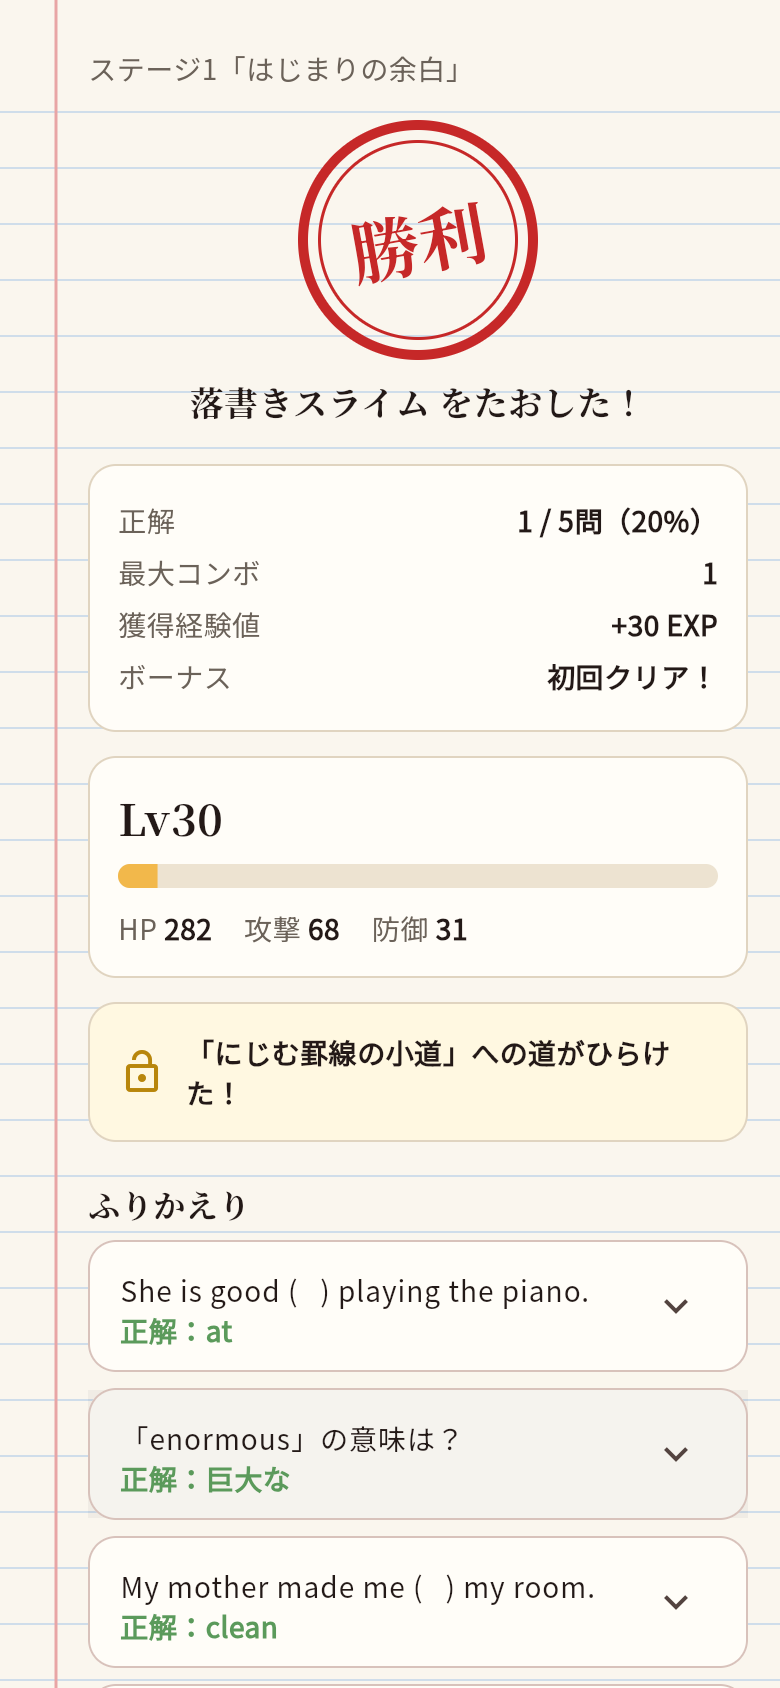
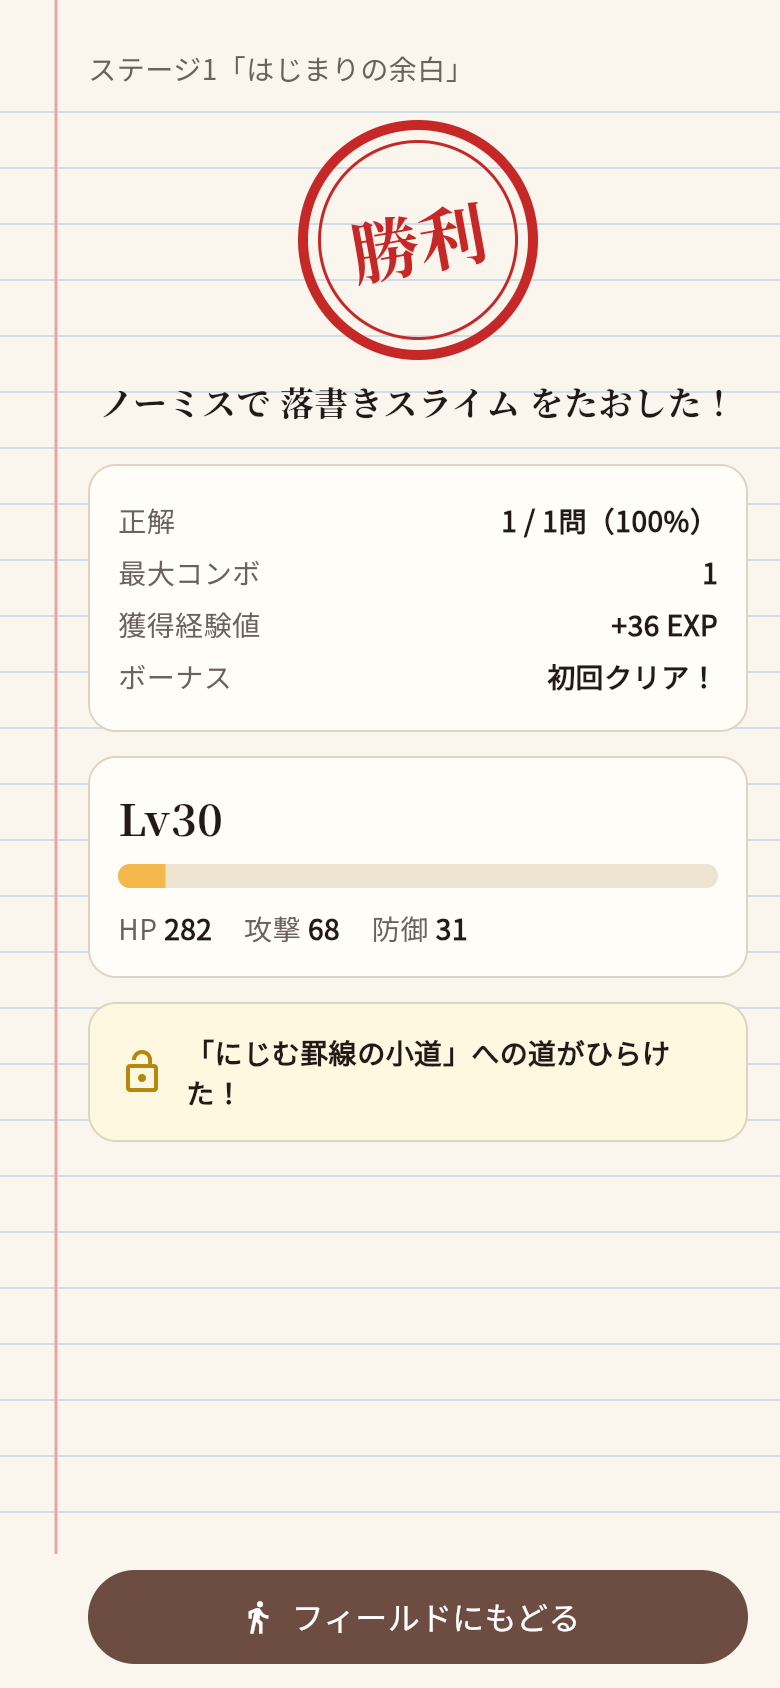
Fix being unable to pass a gate after defeating its enemy
- Enemy spots (1-9) were not treated as floor, so the gate stayed
  impassable once the enemy stepped aside; the reachability test hid this
  by special-casing digits and now uses the same isFloor as the game
- Defeated enemies now step into the wall niche beside their gate instead
  of onto the approach path
- Refresh the field and restore keyboard focus via RouteAware when the
  battle/result screens close (pushReplacement completed the push early)
- Keep the result screen's return button pinned to the bottom

Claude-Session: https://claude.ai/code/session_01TNU1f3YvE5Znfe4DANfdRU

diff --git a/rpg_game_app/lib/field/field_screen.dart b/rpg_game_app/lib/field/field_screen.dart
@@ -4,6 +4,7 @@ import 'package:rpg_game/rpg_game.dart';
 
 import '../app/services.dart';
 import '../app/theme.dart';
+import '../main.dart' show routeObserver;
 import '../art/enemy_painter.dart';
 import '../art/hero_painter.dart';
 import '../battle/battle_screen.dart';
@@ -34,7 +35,7 @@ class _MessageDialog extends _Dialog {
   final String text;
 }
 
-class _FieldScreenState extends State<FieldScreen> {
+class _FieldScreenState extends State<FieldScreen> with RouteAware {
   late RpgProgress _progress = widget.progress;
   late final FieldGame _game = FieldGame(
     map: FieldMap.english,
@@ -46,6 +47,36 @@ class _FieldScreenState extends State<FieldScreen> {
   _Dialog? _dialog;
   bool _starting = false;
 
+  /// キーボード操作用。バトルから戻ったときやダイアログを閉じたときに取り戻す
+  final _focus = FocusNode();
+
+  @override
+  void didChangeDependencies() {
+    super.didChangeDependencies();
+    final route = ModalRoute.of(context);
+    if (route != null) routeObserver.subscribe(this, route);
+  }
+
+  @override
+  void dispose() {
+    routeObserver.unsubscribe(this);
+    _focus.dispose();
+    super.dispose();
+  }
+
+  /// バトル・結果画面を閉じて、フィールドが一番手前に戻ったとき
+  @override
+  void didPopNext() => _refreshAfterBattle();
+
+  Future<void> _refreshAfterBattle() async {
+    final updated = await RpgServices.of(context).repository.load();
+    if (!mounted) return;
+    setState(() => _progress = updated);
+    _game.applyProgress(updated);
+    _game.inputLocked = false;
+    _focus.requestFocus();
+  }
+
   void _open(_Dialog d) {
     _game.inputLocked = true;
     _game.padDirection = null;
@@ -55,6 +86,7 @@ class _FieldScreenState extends State<FieldScreen> {
   void _close() {
     _game.inputLocked = false;
     setState(() => _dialog = null);
+    _focus.requestFocus();
   }
 
   Future<void> _startBattle(StageDef stage) async {
@@ -70,7 +102,9 @@ class _FieldScreenState extends State<FieldScreen> {
     }
     _close();
     _game.inputLocked = true;
-    await Navigator.of(context).push(
+    // 戻ってきたときの処理は didPopNext で行う（結果画面へは差し替えで進むため、
+    // ここで push の完了を待つと結果画面を閉じる前に戻り処理が走ってしまう）
+    Navigator.of(context).push(
       PageRouteBuilder<void>(
         transitionDuration: const Duration(milliseconds: 600),
         pageBuilder: (_, _, _) => BattleScreen(
@@ -83,11 +117,6 @@ class _FieldScreenState extends State<FieldScreen> {
             _BattleTransition(animation: anim, child: child),
       ),
     );
-    final updated = await services.repository.load();
-    if (!mounted) return;
-    setState(() => _progress = updated);
-    _game.applyProgress(updated);
-    _game.inputLocked = false;
   }
 
   @override
@@ -100,7 +129,9 @@ class _FieldScreenState extends State<FieldScreen> {
       backgroundColor: TsuzuriColors.kraft,
       body: Stack(
         children: [
-          Positioned.fill(child: GameWidget(game: _game)),
+          Positioned.fill(
+            child: GameWidget(game: _game, focusNode: _focus),
+          ),
           // 上部の情報バー
           Positioned(
             top: 0,

diff --git a/rpg_game_app/test/field_map_test.dart b/rpg_game_app/test/field_map_test.dart
@@ -25,8 +25,15 @@ void main() {
     }
   });
 
-  /// 倒した敵（番号 < [upTo]）を通れるものとして、スタートから届くマス
+  /// 番号 < [upTo] の敵を倒した状態（ゲート横にどいている）で、スタートから届くマス
   Set<(int, int)> reachable(int upTo) {
+    final blocked = <(int, int)>{
+      for (final e in map.enemySpots.entries)
+        if (e.key < upTo)
+          (map.asideOf(e.value).col, map.asideOf(e.value).row)
+        else
+          (e.value.col, e.value.row),
+    };
     final start = map.find('P');
     final seen = <(int, int)>{(start.col, start.row)};
     final queue = Queue.of([(start.col, start.row)]);
@@ -34,10 +41,8 @@ void main() {
       final (c, r) = queue.removeFirst();
       for (final (dc, dr) in [(0, 1), (0, -1), (1, 0), (-1, 0)]) {
         final n = (c + dc, r + dr);
-        final t = map.tileAt(n.$1, n.$2);
-        final enemy = int.tryParse(t);
-        final passable =
-            map.isFloor(n.$1, n.$2) || (enemy != null && enemy < upTo);
+        // ゲーム本体と同じく、地形は isFloor、敵の有無は blocked で判定する
+        final passable = !blocked.contains(n) && map.isFloor(n.$1, n.$2);
         if (passable && seen.add(n)) queue.add(n);
       }
     }
@@ -63,6 +68,14 @@ void main() {
           reason: '${s.name} を倒す前に次の敵へ届いてしまう',
         );
       }
+    }
+  });
+
+  test('倒した敵は壁のくぼみに寄り、床をふさがない', () {
+    for (final spot in map.enemySpots.values) {
+      final aside = map.asideOf(spot);
+      expect(aside, isNot(spot));
+      expect(map.tileAt(aside.col, aside.row), '#');
     }
   });
 

diff --git a/rpg_game_app/lib/battle/result_screen.dart b/rpg_game_app/lib/battle/result_screen.dart
@@ -98,6 +98,22 @@ class _ResultScreenState extends State<ResultScreen>
     final s = widget.summary;
     final won = s.won;
     return Scaffold(
+      // もどるボタンは常に見えるよう画面下に固定する
+      bottomNavigationBar: Container(
+        color: TsuzuriColors.paper,
+        padding: const EdgeInsets.fromLTRB(44, 8, 16, 12),
+        child: SafeArea(
+          top: false,
+          child: FilledButton.icon(
+            onPressed: () => Navigator.of(context).pop(),
+            icon: const Icon(Icons.directions_walk),
+            label: const Padding(
+              padding: EdgeInsets.symmetric(vertical: 12),
+              child: Text('フィールドにもどる', style: TextStyle(fontSize: 16)),
+            ),
+          ),
+        ),
+      ),
       body: NotebookPaper(
         child: SafeArea(
           child: ListView(
@@ -163,15 +179,7 @@ class _ResultScreenState extends State<ResultScreen>
                 const SizedBox(height: 6),
                 for (final q in s.missedQuestions) _review(q),
               ],
-              const SizedBox(height: 24),
-              FilledButton.icon(
-                onPressed: () => Navigator.of(context).pop(),
-                icon: const Icon(Icons.directions_walk),
-                label: const Padding(
-                  padding: EdgeInsets.symmetric(vertical: 12),
-                  child: Text('フィールドにもどる', style: TextStyle(fontSize: 16)),
-                ),
-              ),
+              const SizedBox(height: 16),
             ],
           ),
         ),

diff --git a/rpg_game_app/lib/field/field_map.dart b/rpg_game_app/lib/field/field_map.dart
@@ -22,10 +22,11 @@ class FieldMap {
     return rows[row][col];
   }
 
-  /// 地形として通れるか（敵・看板・ゴールは別途判定）
+  /// 地形として通れるか。敵の立ち位置（1〜9）も地面は床で、
+  /// 敵がいるかどうかはゲーム側で別に判定する。
   bool isFloor(int col, int row) {
     final t = tileAt(col, row);
-    return t == '.' || t == 'P';
+    return t == '.' || t == 'P' || int.tryParse(t) != null;
   }
 
   ({int col, int row}) find(String ch) {
@@ -41,6 +42,16 @@ class FieldMap {
     for (var n = 1; n <= 9; n++)
       if (rows.any((r) => r.contains('$n'))) n: find('$n'),
   };
+
+  /// 倒した敵の待機場所。ゲート横の壁のくぼみに寄るので、通り道をふさがない。
+  ({int col, int row}) asideOf(({int col, int row}) gate) {
+    for (final dc in [1, -1]) {
+      if (tileAt(gate.col + dc, gate.row) == '#') {
+        return (col: gate.col + dc, row: gate.row);
+      }
+    }
+    return gate;
+  }
 
   /// 看板のメッセージ（上から順に）
   static const signMessages = ['ここは英語ワールド。道をふさぐ魔物に話しかけると、4択クイズのバトルが始まるよ。'];

diff --git a/rpg_game_app/lib/field/field_game.dart b/rpg_game_app/lib/field/field_game.dart
@@ -93,19 +93,10 @@ class FieldGame extends FlameGame with KeyboardEvents {
     for (final token in _enemies.values) {
       final cleared = progress.clearedStageIds.contains(token.stage.id);
       token.cleared = cleared;
-      token.cell = cleared ? _asideOf(token.home) : token.home;
+      token.cell = cleared ? map.asideOf(token.home) : token.home;
       token.position = _center(token.cell);
       token.priority = token.cell.row * 10 + 4;
     }
-  }
-
-  /// 倒した敵の待機場所（ゲートの1つ下の段で、空いている横のマス）
-  Cell _asideOf(Cell gate) {
-    for (final dc in [1, -1, 2, -2]) {
-      final c = (col: gate.col + dc, row: gate.row + 1);
-      if (map.isFloor(c.col, c.row)) return c;
-    }
-    return gate;
   }
 
   EnemyToken? _enemyAt(Cell c) {

diff --git a/rpg_game_app/lib/main.dart b/rpg_game_app/lib/main.dart
@@ -17,6 +17,9 @@ Future<void> main() async {
   );
 }
 
+/// 画面の出入りを知らせる（フィールドがバトルから戻ったことを知るのに使う）
+final routeObserver = RouteObserver<ModalRoute<void>>();
+
 class TsuzuriQuestApp extends StatelessWidget {
   const TsuzuriQuestApp({super.key});
 
@@ -27,6 +30,7 @@ class TsuzuriQuestApp extends StatelessWidget {
       debugShowCheckedModeBanner: false,
       theme: buildTheme(Brightness.light),
       darkTheme: buildTheme(Brightness.dark),
+      navigatorObservers: [routeObserver],
       home: const WorldMapScreen(),
     );
   }
